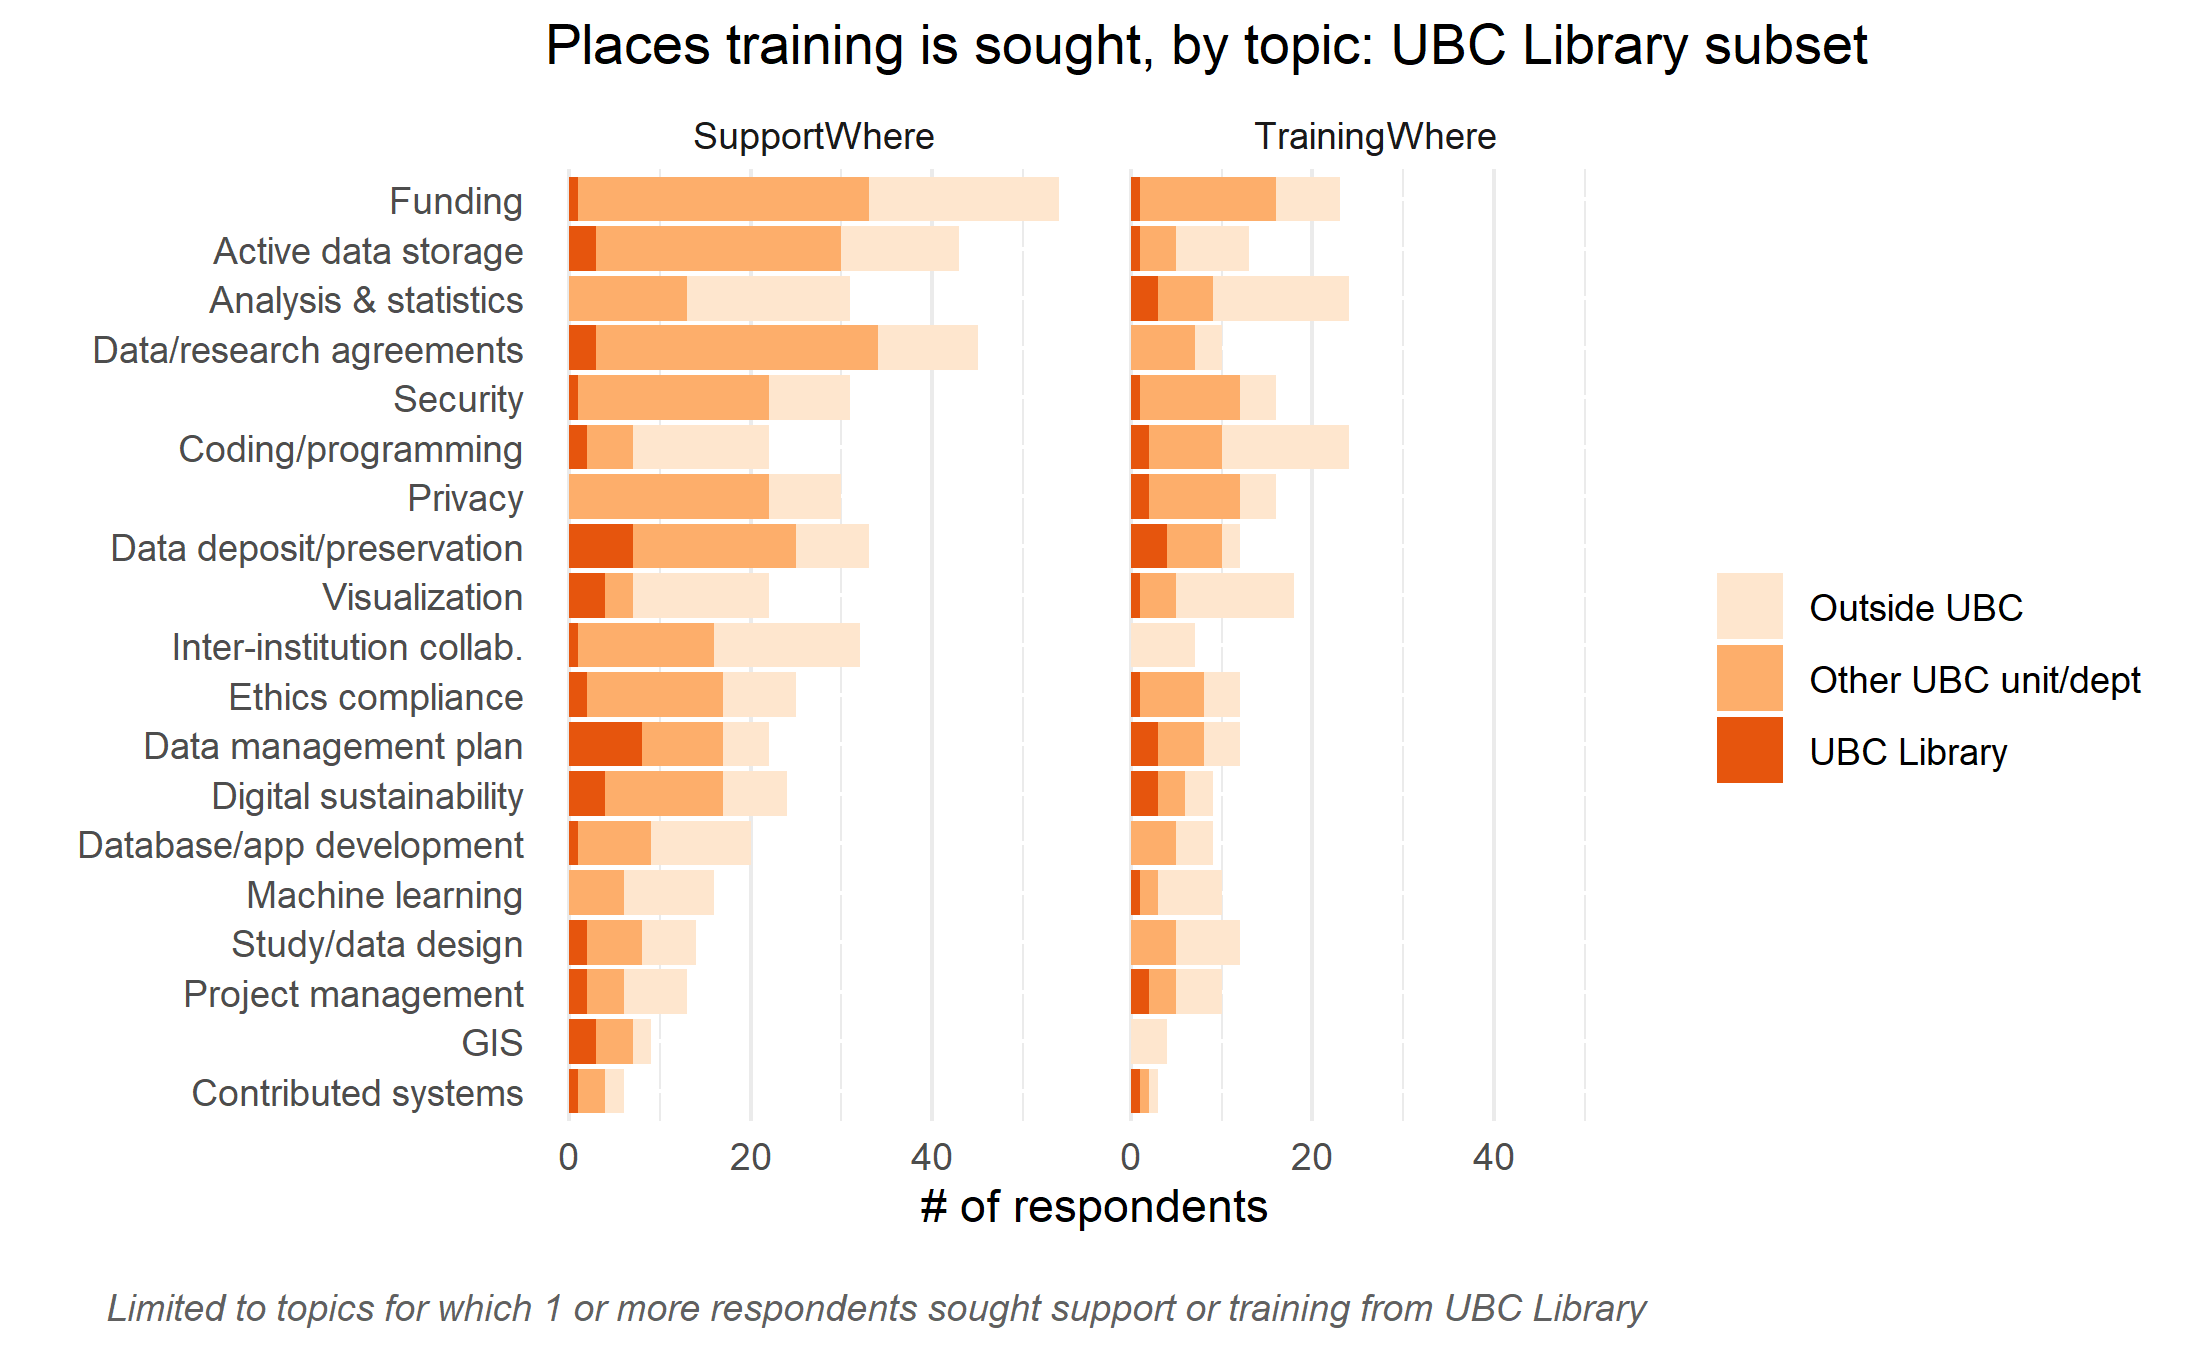
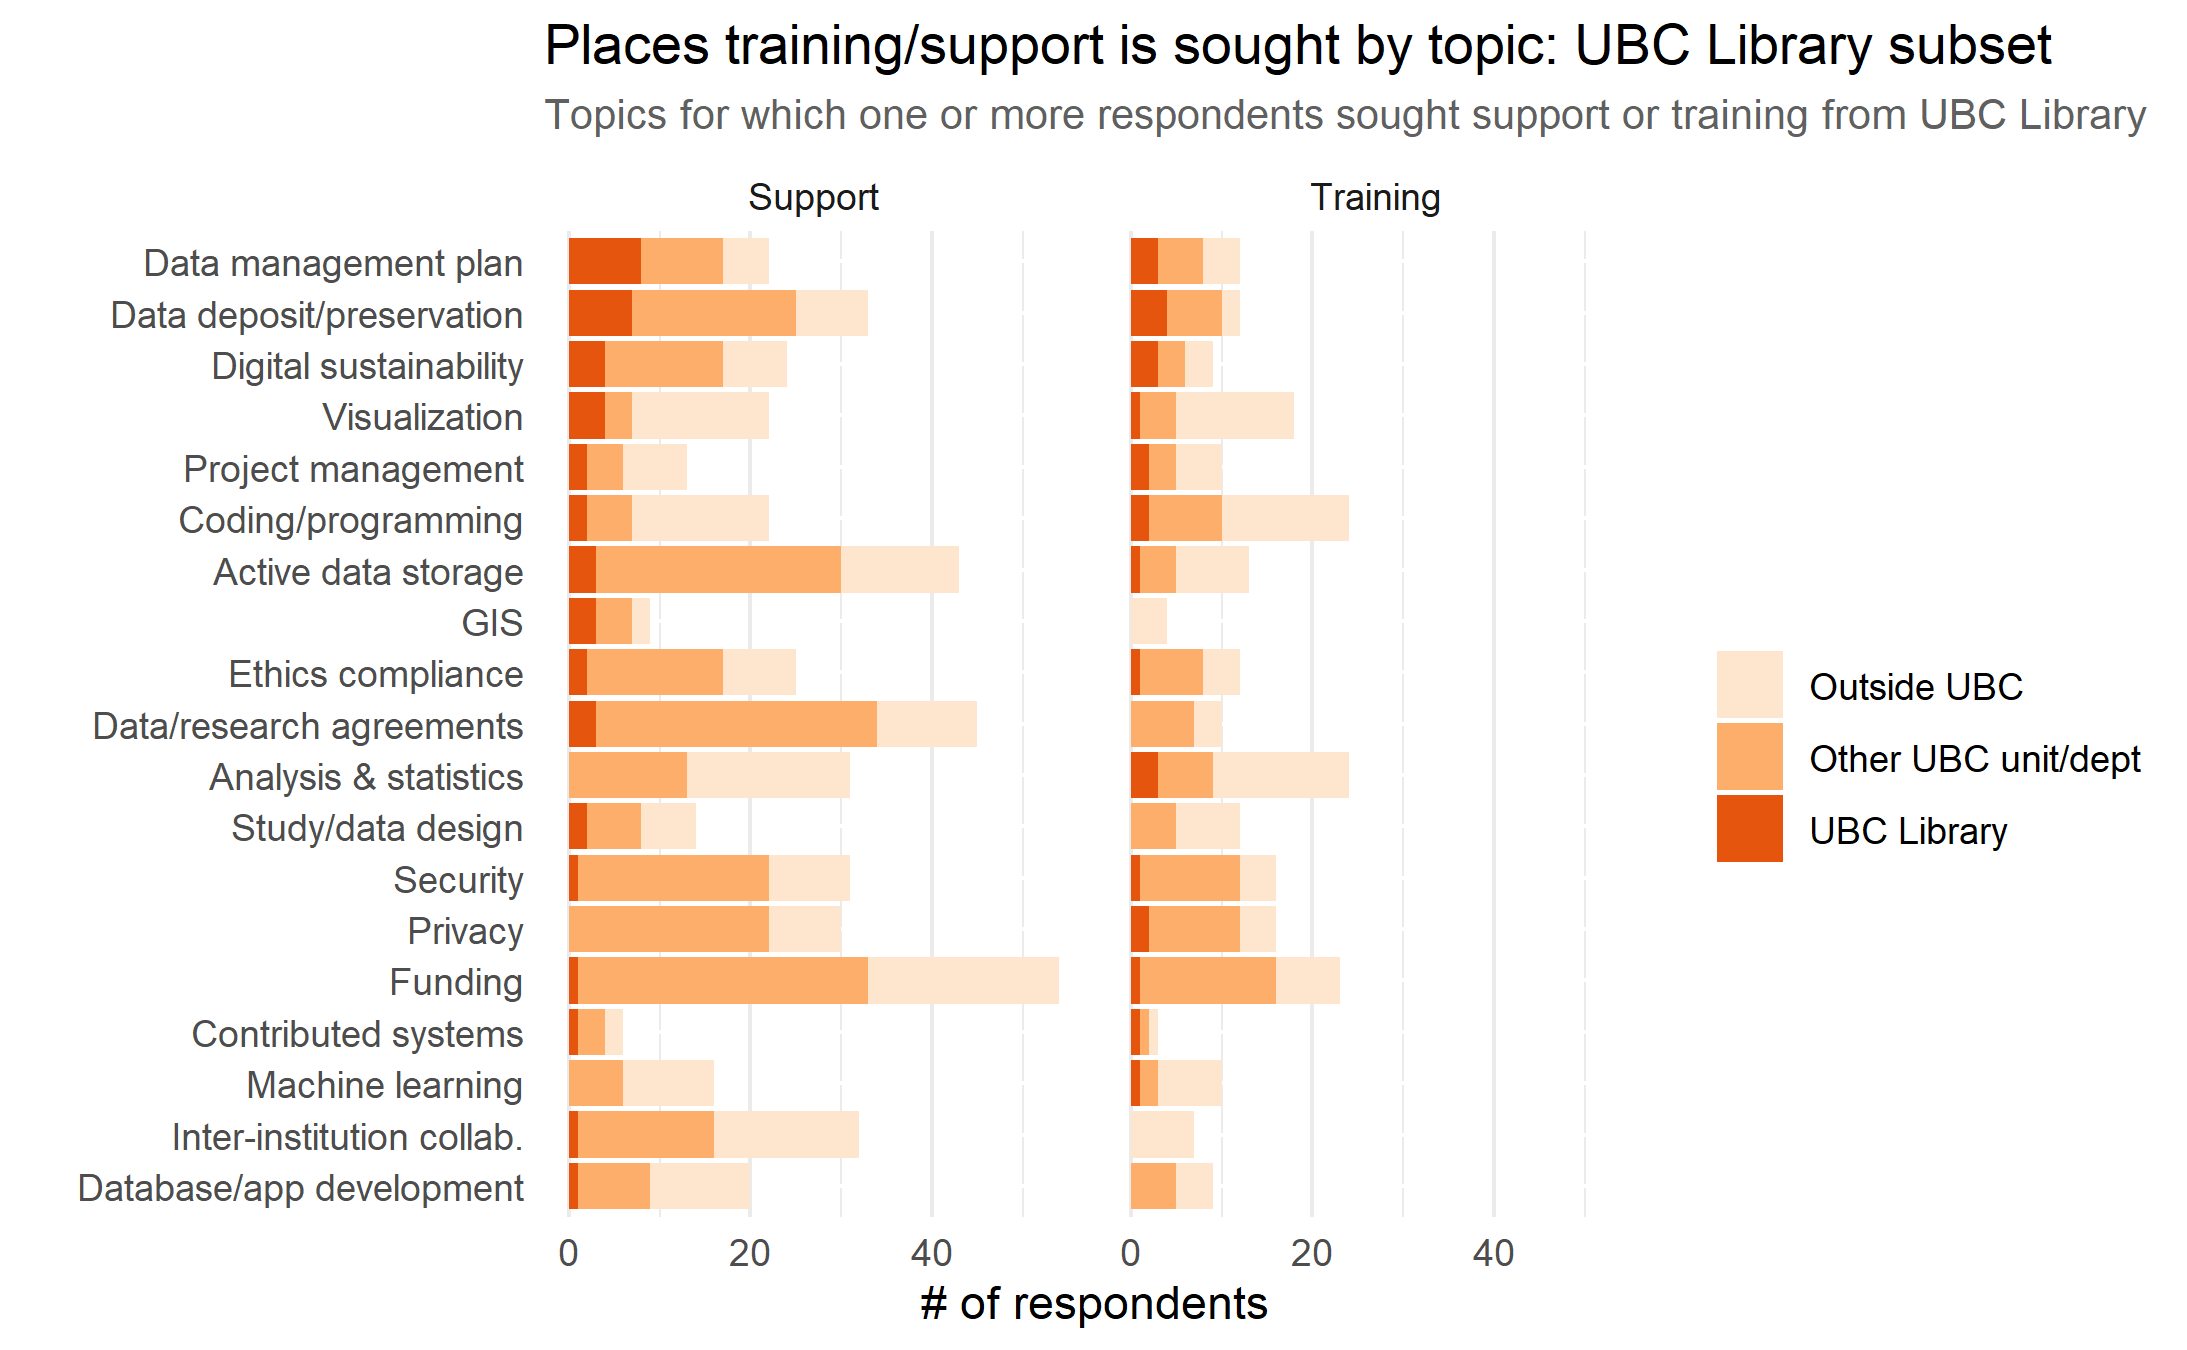
revised graphs

diff --git a/index.md b/index.md
@@ -51,15 +51,6 @@ From May 17th - June 12, 2021, UBC Advanced Research Computing (ARC) and the UBC
 **Recommendation 3**: Coordinate across portfolios and departments that provide DRI services to build a central portal for the easy discovery of services.
 
 
-<img class="figure-main" alt="Need for support/training" src="graphs/overall_support-training.png">
-
-
-
-<img class="figure-main" alt="Places support/training is sought" src="graphs/overall_where_support-training.png">
-
-<img class="figure-main" alt="Number of places support/training is sought" src="graphs/overall_number_of_places_support-training.png">
-
-
 ## Reports
 
 The 25 areas of DRI queried have been split into 4 individual reports, detailing if supports and training were needed and where they were sought. Each report is catered to a specific unit and represents core areas of service delivery within each of those units. 
@@ -131,13 +122,13 @@ For the purpose of this report, this section will feature the high-level finding
 
 One of the most striking findings from the survey was the discrepancy between the relatively small number of those that sought training or support, compared to the much larger numbers of those that would have liked training or support but didn’t know they were available (see Figure X. and X.)  Of particular note, is that this gap between those that sought training or support versus those that wanted it spans across nearly all of the 25 DRI elements and the respective portfolios and departments that serve these areas.   
 
-!!Placeholder for Figures for Lack of Awareness for Training/Support
+<img style="margin: -100px 0" alt="Need for support/training" src="graphs/overall_support-training.png">
 
 **_Dispersion of Support and Training_**
 
 Another notable finding is that of the respondents that sought training or support, there was no single portfolio or department that unanimously served a particular area, but rather, all 25 areas of DRI were served by several different units (see Figures X and X.).  Furthermore, for those that did seek training, many turned to sources outside of UBC for a variety of DRI areas.  Those that sought support also turned to sources outside UBC, although to a lesser degree compared to training.   
 
-!!Placeholder for support/training sought across multiple units
+<img style="margin: 20px 0" alt="Need for support/training" src="graphs/overall_where.png">
 
 **_Training Within UBC_**
 

diff --git a/library.md b/library.md
@@ -43,12 +43,6 @@ _Top 3 areas in which **researchers sought training from the Library** (Figure X
 
 ## Highlights
 
-<img class="figure-sub" alt="Need for support/training" src="graphs/UBC_Library_support-training.png">
+<img style="margin: 20px" alt="Need for support and training" src="graphs/UBC_Library_support-training.png">
 
-<img class="figure-sub" alt="Places support is sought" src="graphs/UBC_Library_where.png">
-
-<img class="figure-sub" alt="Need for training" src="graphs/UBC_Library_training.png">
-
-<img class="figure-sub" alt="Places training is sought" src="graphs/UBC_Library_trainingWhere.png">
-
-
+<img style="margin: 20px" alt="Places support and training are sought" src="graphs/UBC_Library_where.png">
